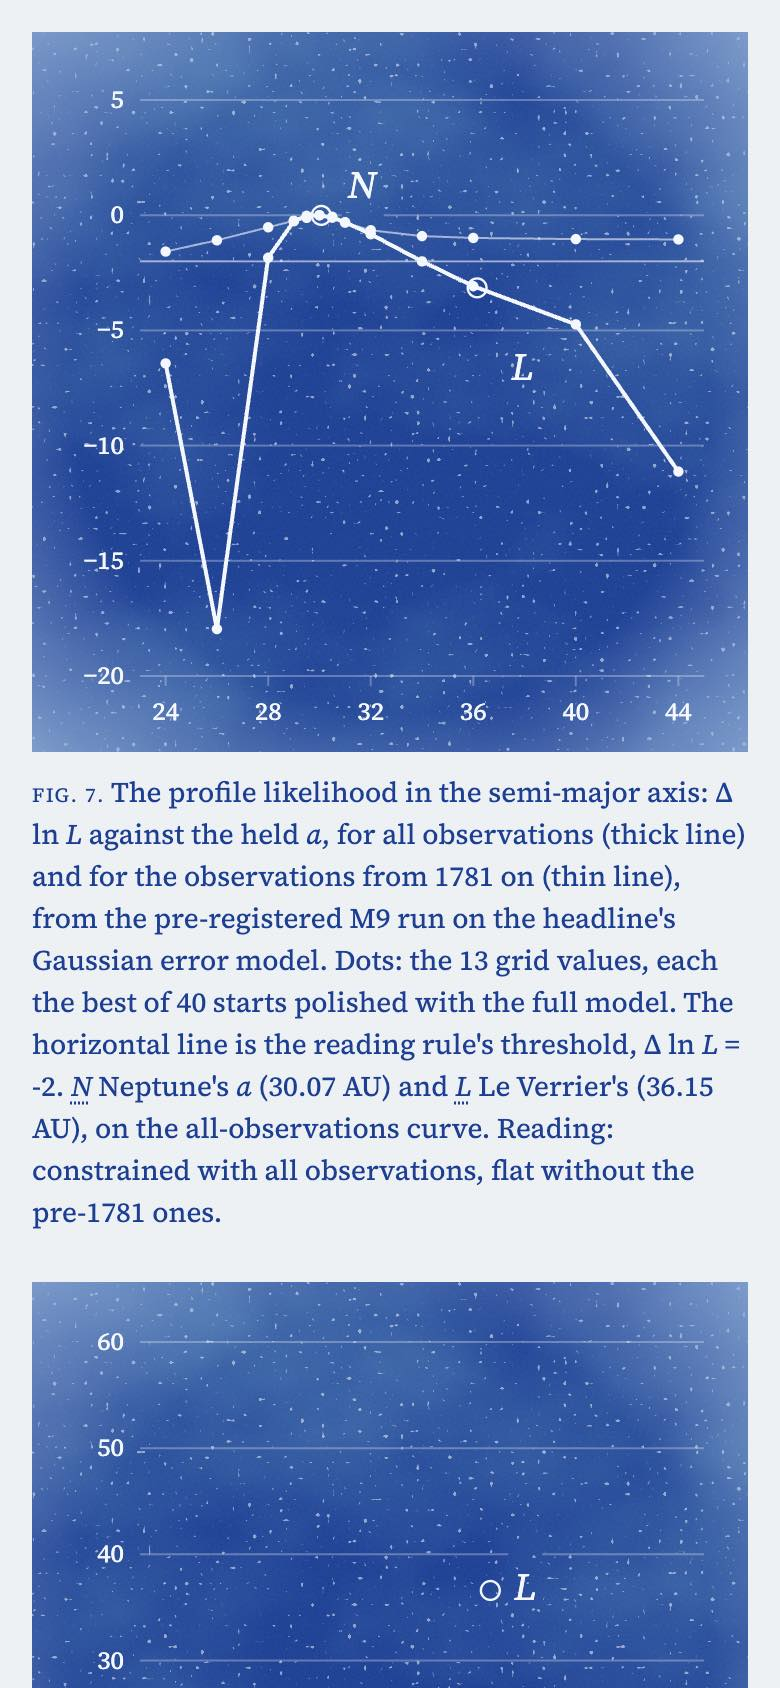
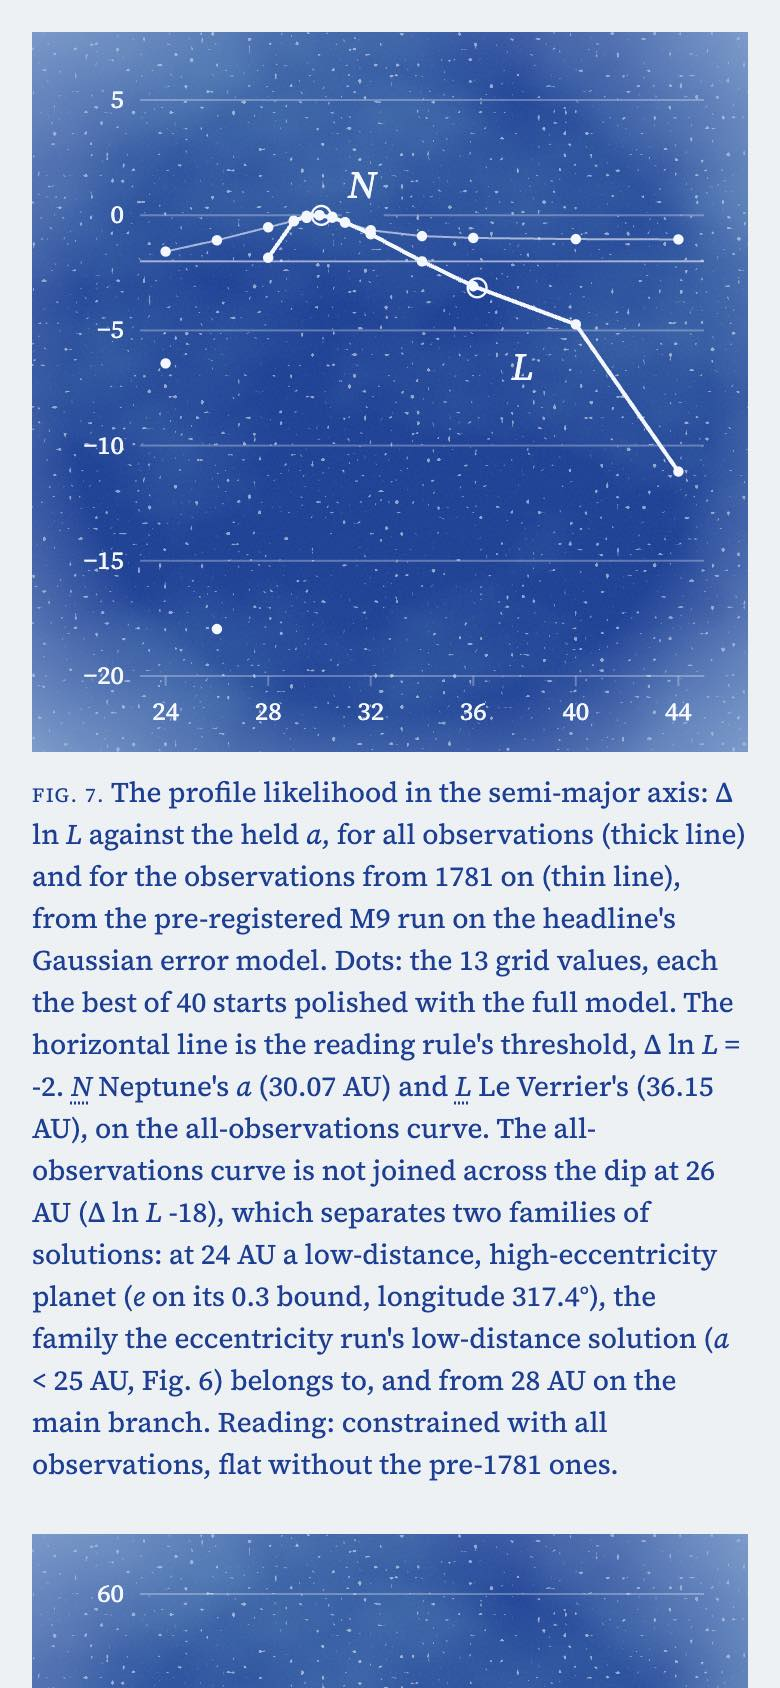
Release checklist: repository-state items ticked with their evidence (fresh-clone uv sync --locked, ruff, the slow suite 22 passed in 5 min 59 s, the toy example 2 min 58 s on an idle machine, export tests, ledger 1087 CPU-h); reproduce.md carries the new toy time; Fig. 7 screenshots refreshed after

diff --git a/docs/release_checklist.md b/docs/release_checklist.md
@@ -56,21 +56,27 @@ semver: the tag is `vX.Y.Z`, and `pyproject.toml` and `CITATION.cff` hold `X.Y.Z
 
 ## Repository state
 
-- [ ] Branch merged to `main`, working tree clean, and nothing in `data/cache/` is needed to
-  read the release.
-- [ ] `uv sync --locked` succeeds on a fresh clone.
-- [ ] `uv run ruff check . && uv run ruff format --check .` passes.
+- [x] Branch merged to `main`, working tree clean, and nothing in `data/cache/` is needed to
+  read the release. 2026-11-10: all work is on `main`; every result the README and site read
+  is under `site/data/` or `docs/notes/` (the M9 report, the arbiter summary, the fits).
+- [x] `uv sync --locked` succeeds on a fresh clone. 2026-11-10: clone of b799fd1, `uv sync
+  --locked` in 0.5 s (packages cached), `fork` 1.0.0 importable.
+- [x] `uv run ruff check . && uv run ruff format --check .` passes. 2026-11-10: "All checks
+  passed!", 100 files already formatted.
 - [x] `uv run pytest -m "not slow and not network"` passes locally and on CI (the badge is
   green on `main`). 2026-11-09: a0ec860, CI run
   https://github.com/atishaypahadiya/neptune-fork/actions/runs/42740104130 (lint and test
   green, 322 passed) and locally 322 passed.
-- [ ] `uv run pytest -m slow` passes locally. Record the wall time.
-- [ ] `uv run python examples/toy_fit.py` finishes in under 5 min on an idle machine. The time
+- [x] `uv run pytest -m slow` passes locally. Record the wall time. 2026-11-10: 22 passed in
+  5 min 59 s wall (1344 s CPU), while the layout check ran alongside.
+- [x] `uv run python examples/toy_fit.py` finishes in under 5 min on an idle machine. The time
   in `docs/reproduce.md` (4.6 min) was measured under A6c load, so re-time it and update.
-- [ ] Committed `site/data/*.json` matches a fresh export where tests check that
-  (`test_export.py`, `test_ledger.py`).
-- [ ] `uv run python -m fork.export.ledger` re-run, and the CPU-hour totals in `README.md` and
-  `docs/reproduce.md` updated (they will include A6c and M6c).
+  2026-11-10: 2 min 58 s on the idle machine; `docs/reproduce.md` updated.
+- [x] Committed `site/data/*.json` matches a fresh export where tests check that
+  (`test_export.py`, `test_ledger.py`). 2026-11-10: in the fast suite's 332 passed.
+- [x] `uv run python -m fork.export.ledger` re-run, and the CPU-hour totals in `README.md` and
+  `docs/reproduce.md` updated (they will include A6c and M6c). 2026-11-10: 1087 CPU-h (1004
+  live, 83 estimated), through M9; both files say so.
 - [x] The A6d static check holds: no M6a–M6d code path reads Neptune's real ephemeris or the
   M6e precovery file (`tests/test_a6d.py`, 2026-11-09; runtime half in `tests/test_m6c.py`).
 - [x] Whitmore's *discoverneptune* is cited in the README. If any of its data are reused,

diff --git a/docs/reproduce.md b/docs/reproduce.md
@@ -186,7 +186,7 @@ uv run python examples/toy_fit.py
 uv run pytest tests/test_toy_example.py     # capped at 15 iterations, a few seconds
 ```
 This runs one cell (a 28–60 AU, e < 0.12) on synthetic seed 0 at nlive 20, single process,
-offline. One run took 4.6 min on one core (674 iterations, 41k likelihood calls) while A6c
+offline. One run took 3.0 min on one core (674 iterations, 41k likelihood calls) while A6c
 kept the machine at load ~19, so expect less on an idle machine. It shows the pipeline working.
 Its interval and ln Z are not M5b results. That run's 68 % interval was about 5° wide, half the
 width of the real M5b intervals, and its ln Z_k error was ±3. At nlive 20 the sampler
